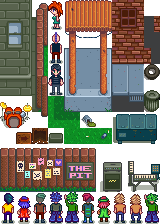
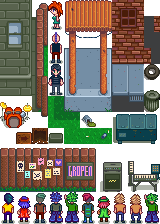
Oversett fllere .png-filer

Changed region(s): [[0.4062, 0.7188, 0.5938, 0.8125]]

diff --git a/Gjøremålsliste.md b/Gjøremålsliste.md
@@ -162,16 +162,16 @@
   - [x] JunimoNote.png
   - [ ] Movies.png
   - [ ] skillTitles.png
-- [ ] Maps
+- [x] Maps
   - [x] DesertTiles.png
-  - [ ] Festivals.png
+  - [x] Festivals.png
   - [x] TownIndoors.png
   - [x] bathhouse_tiles.png
   - [x] coopTiles.png
   - [x] fall_beach.png
   - [x] fall_outdoorsTileSheet.png
   - [x] fall_town.png
-  - [ ] samshowtiles.png
+  - [x] samshowtiles.png
   - [x] spring_beach.png
   - [x] spring_outdoorsTileSheet.png
   - [x] spring_town.png
@@ -179,7 +179,7 @@
   - [x] summer_beach.png
   - [x] summer_outdoorsTileSheet.png
   - [x] summer_town.png
-  - [ ] townInterior.png
+  - [x] townInterior.png
   - [x] winter_beach.png
   - [x] winter_outdoorsTileSheet.png
   - [x] winter_town.png
